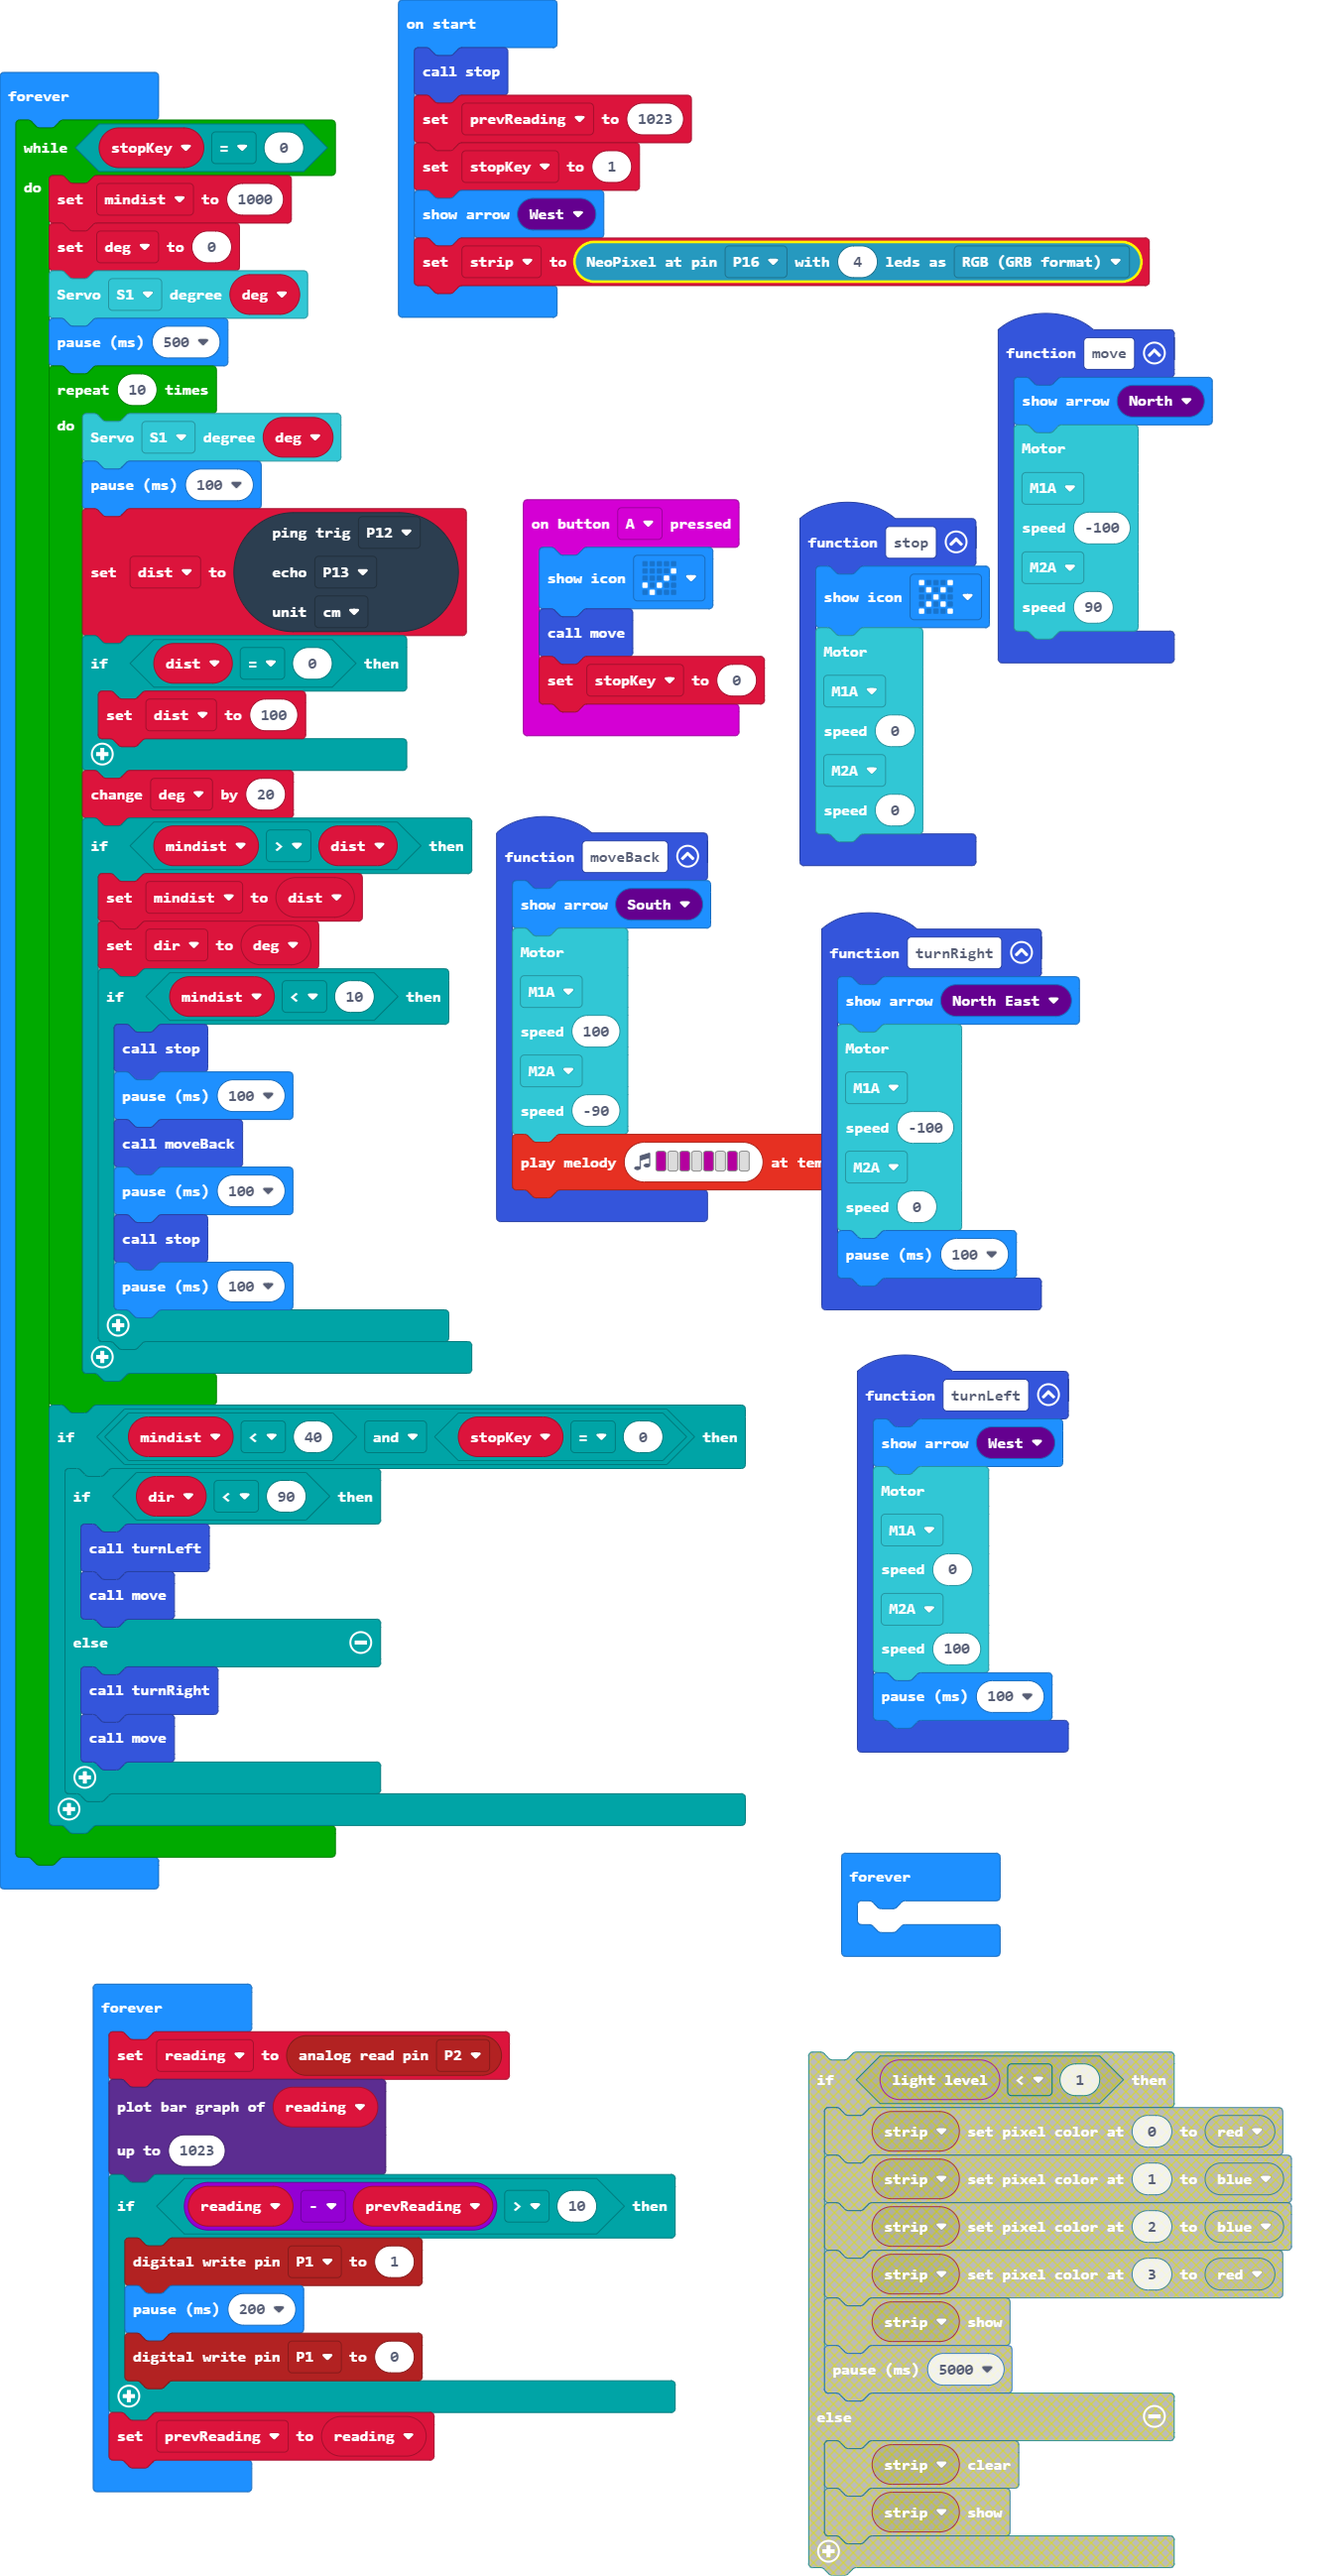
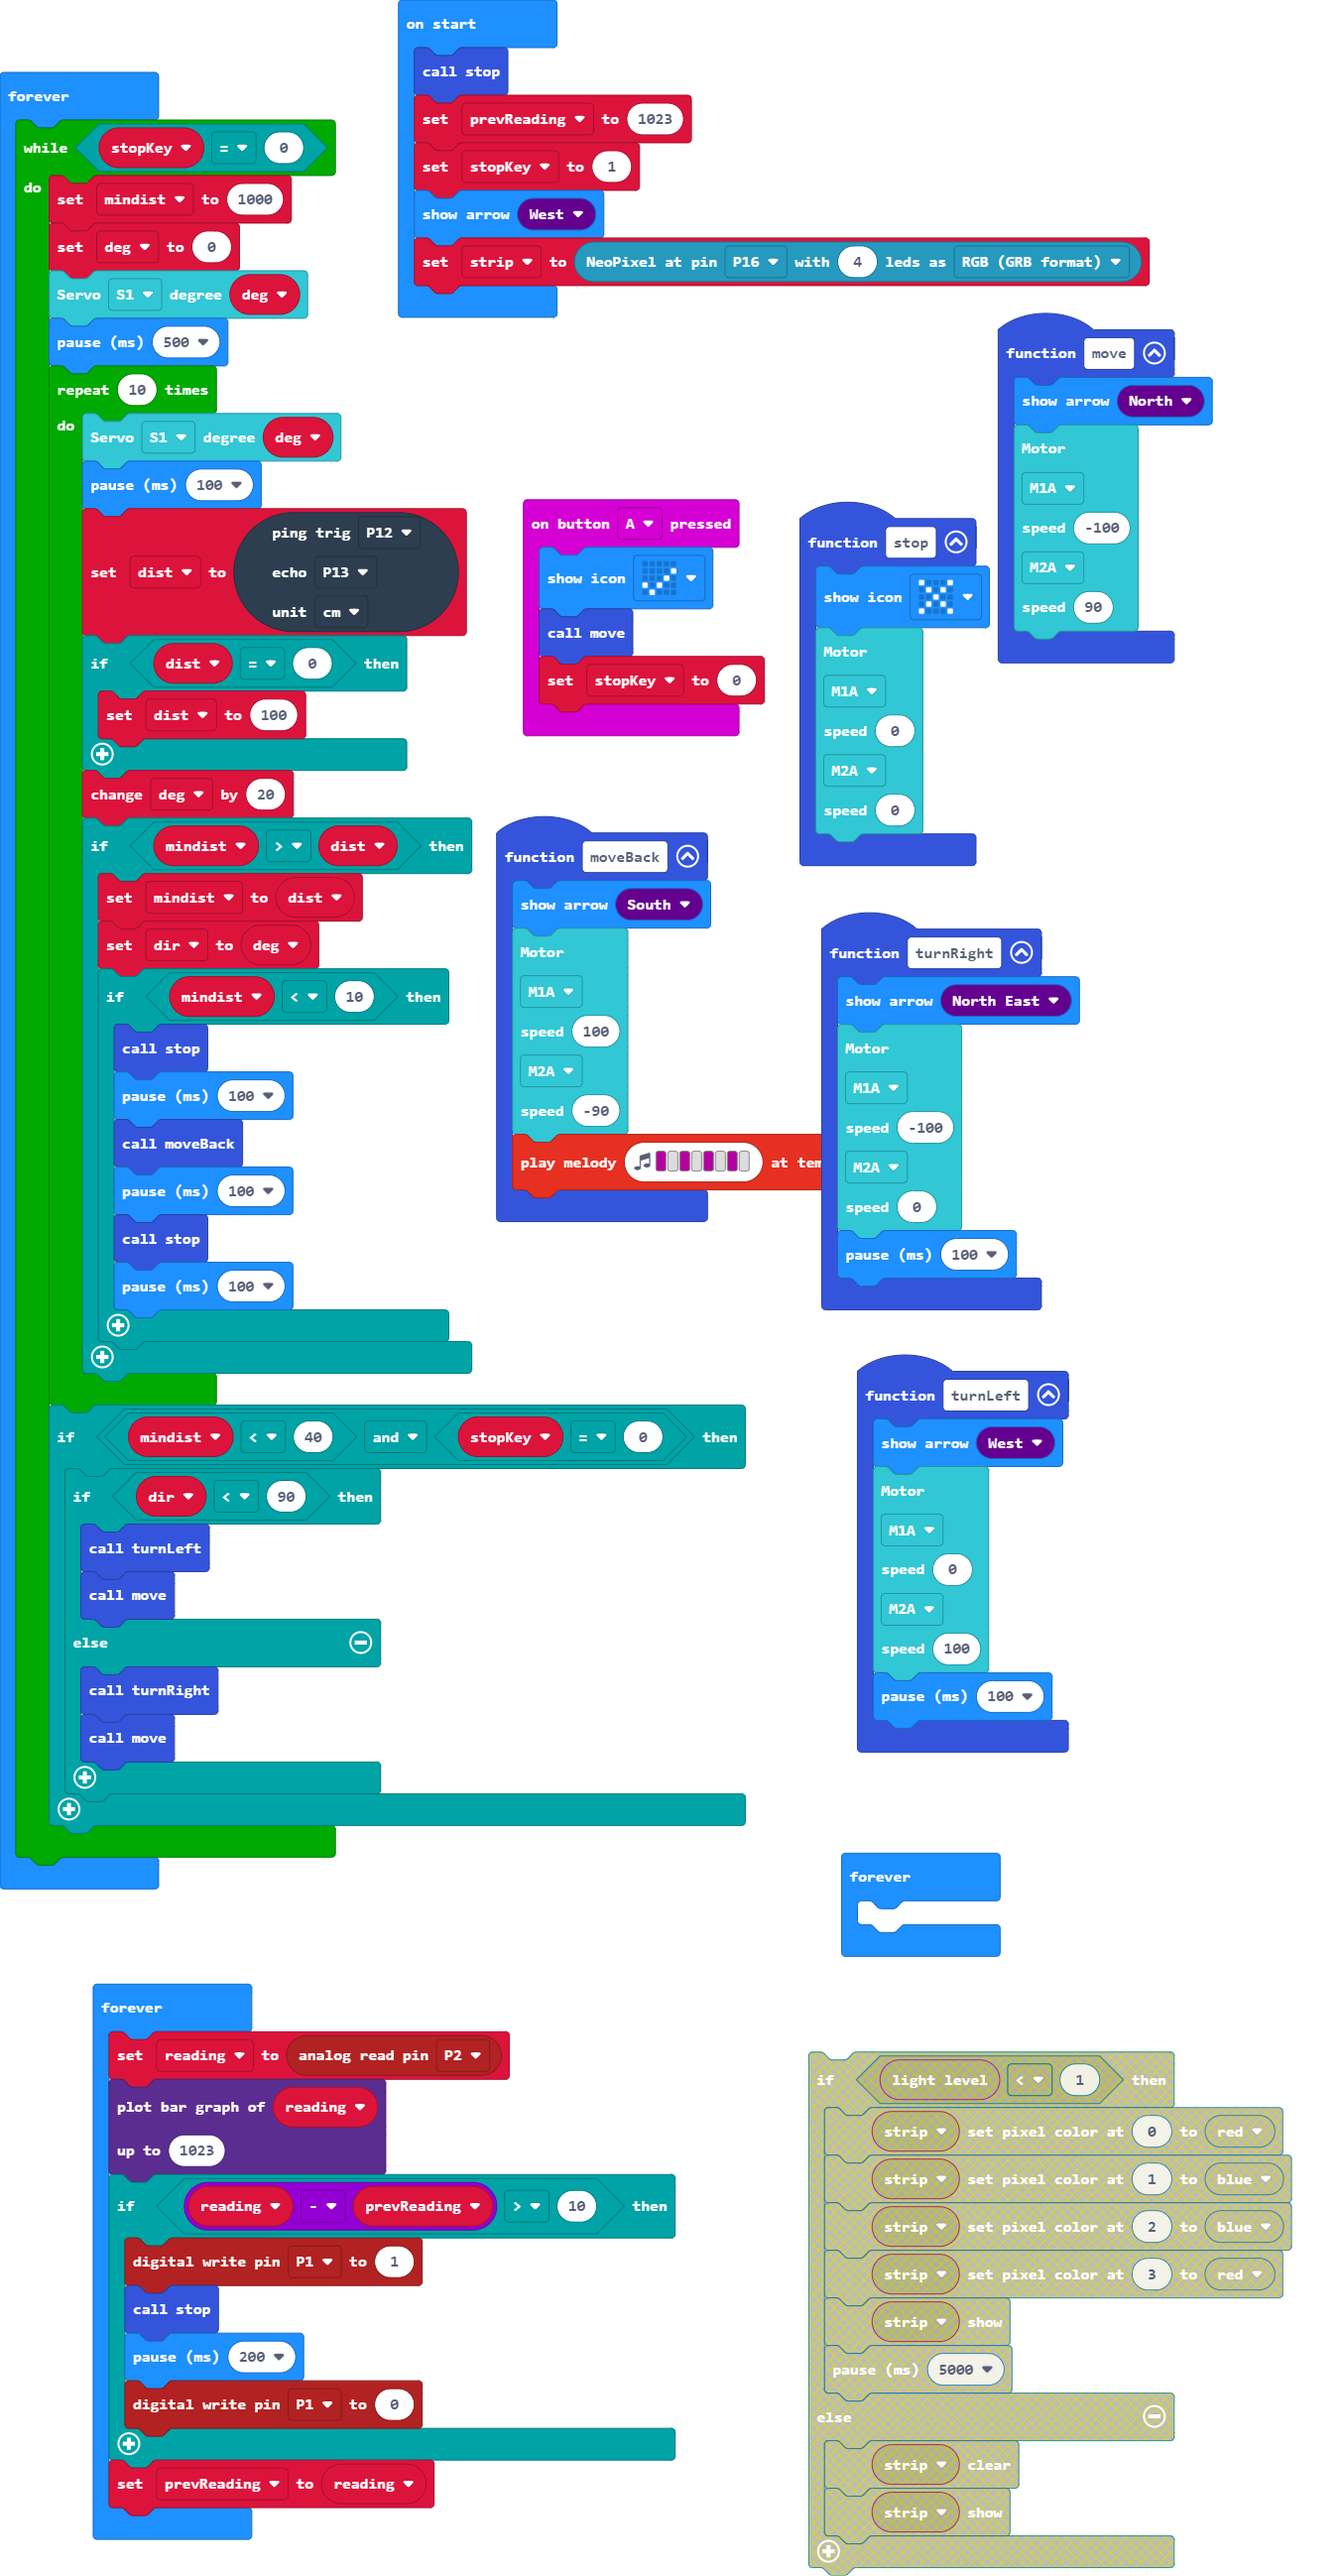
Update main.blocks, main.ts

Changed region(s): [[0.062, 0.8733, 0.5273, 0.9981]]

diff --git a/main.ts b/main.ts
@@ -115,6 +115,7 @@ basic.forever(function () {
     )
     if (reading - prevReading > 10) {
         pins.digitalWritePin(DigitalPin.P1, 1)
+        stop()
         basic.pause(200)
         pins.digitalWritePin(DigitalPin.P1, 0)
     }
